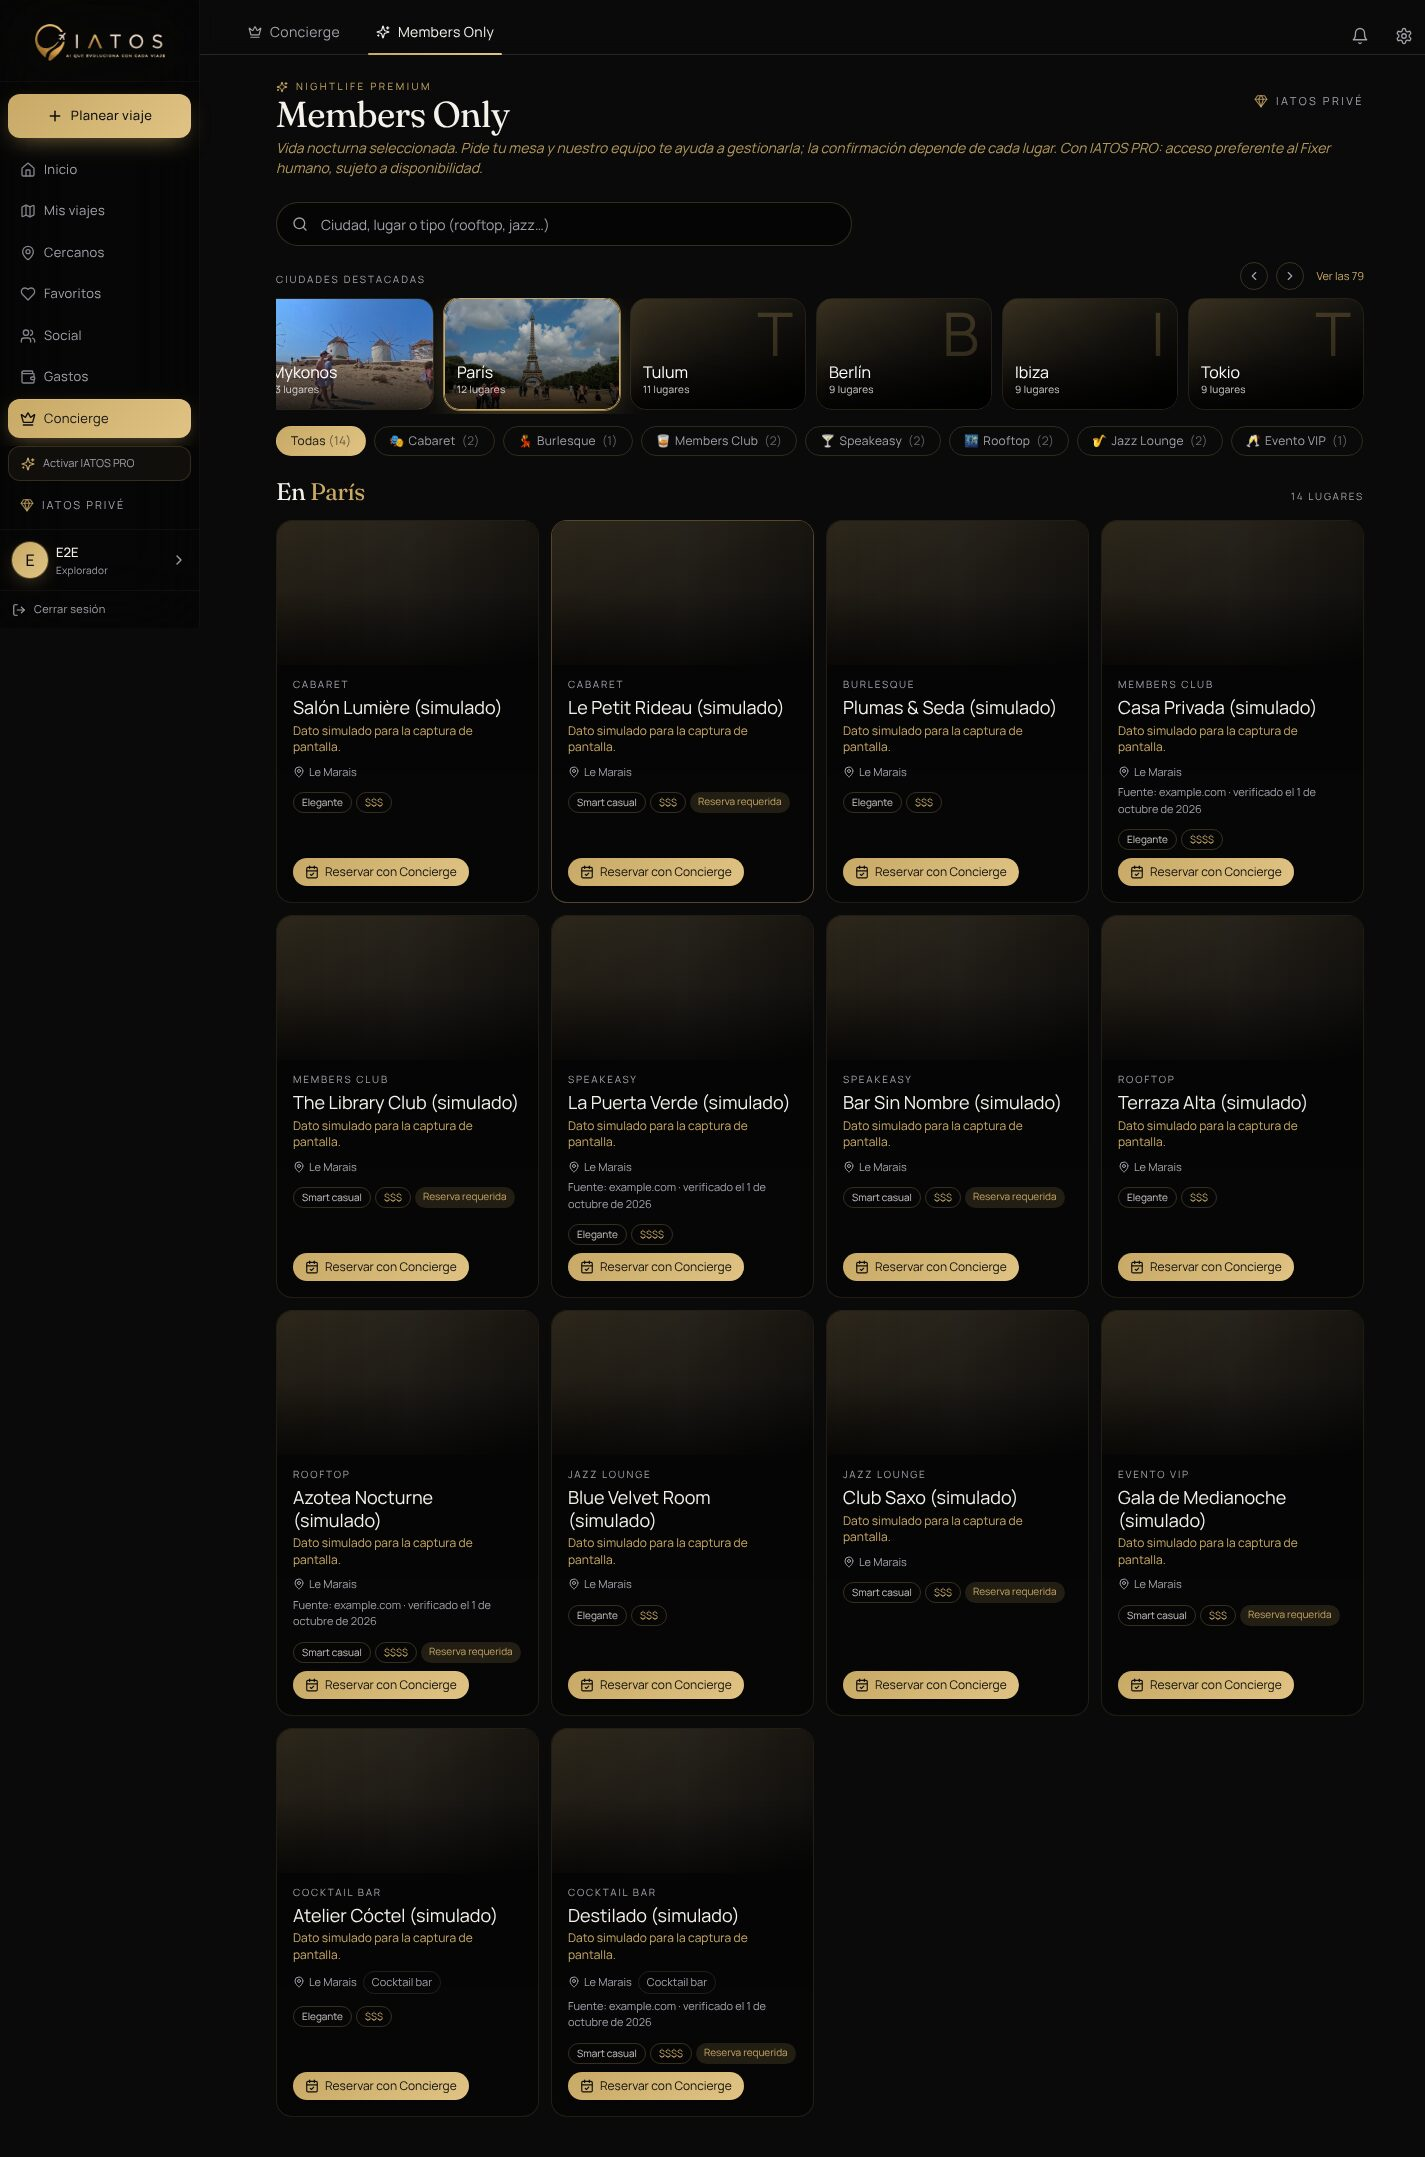
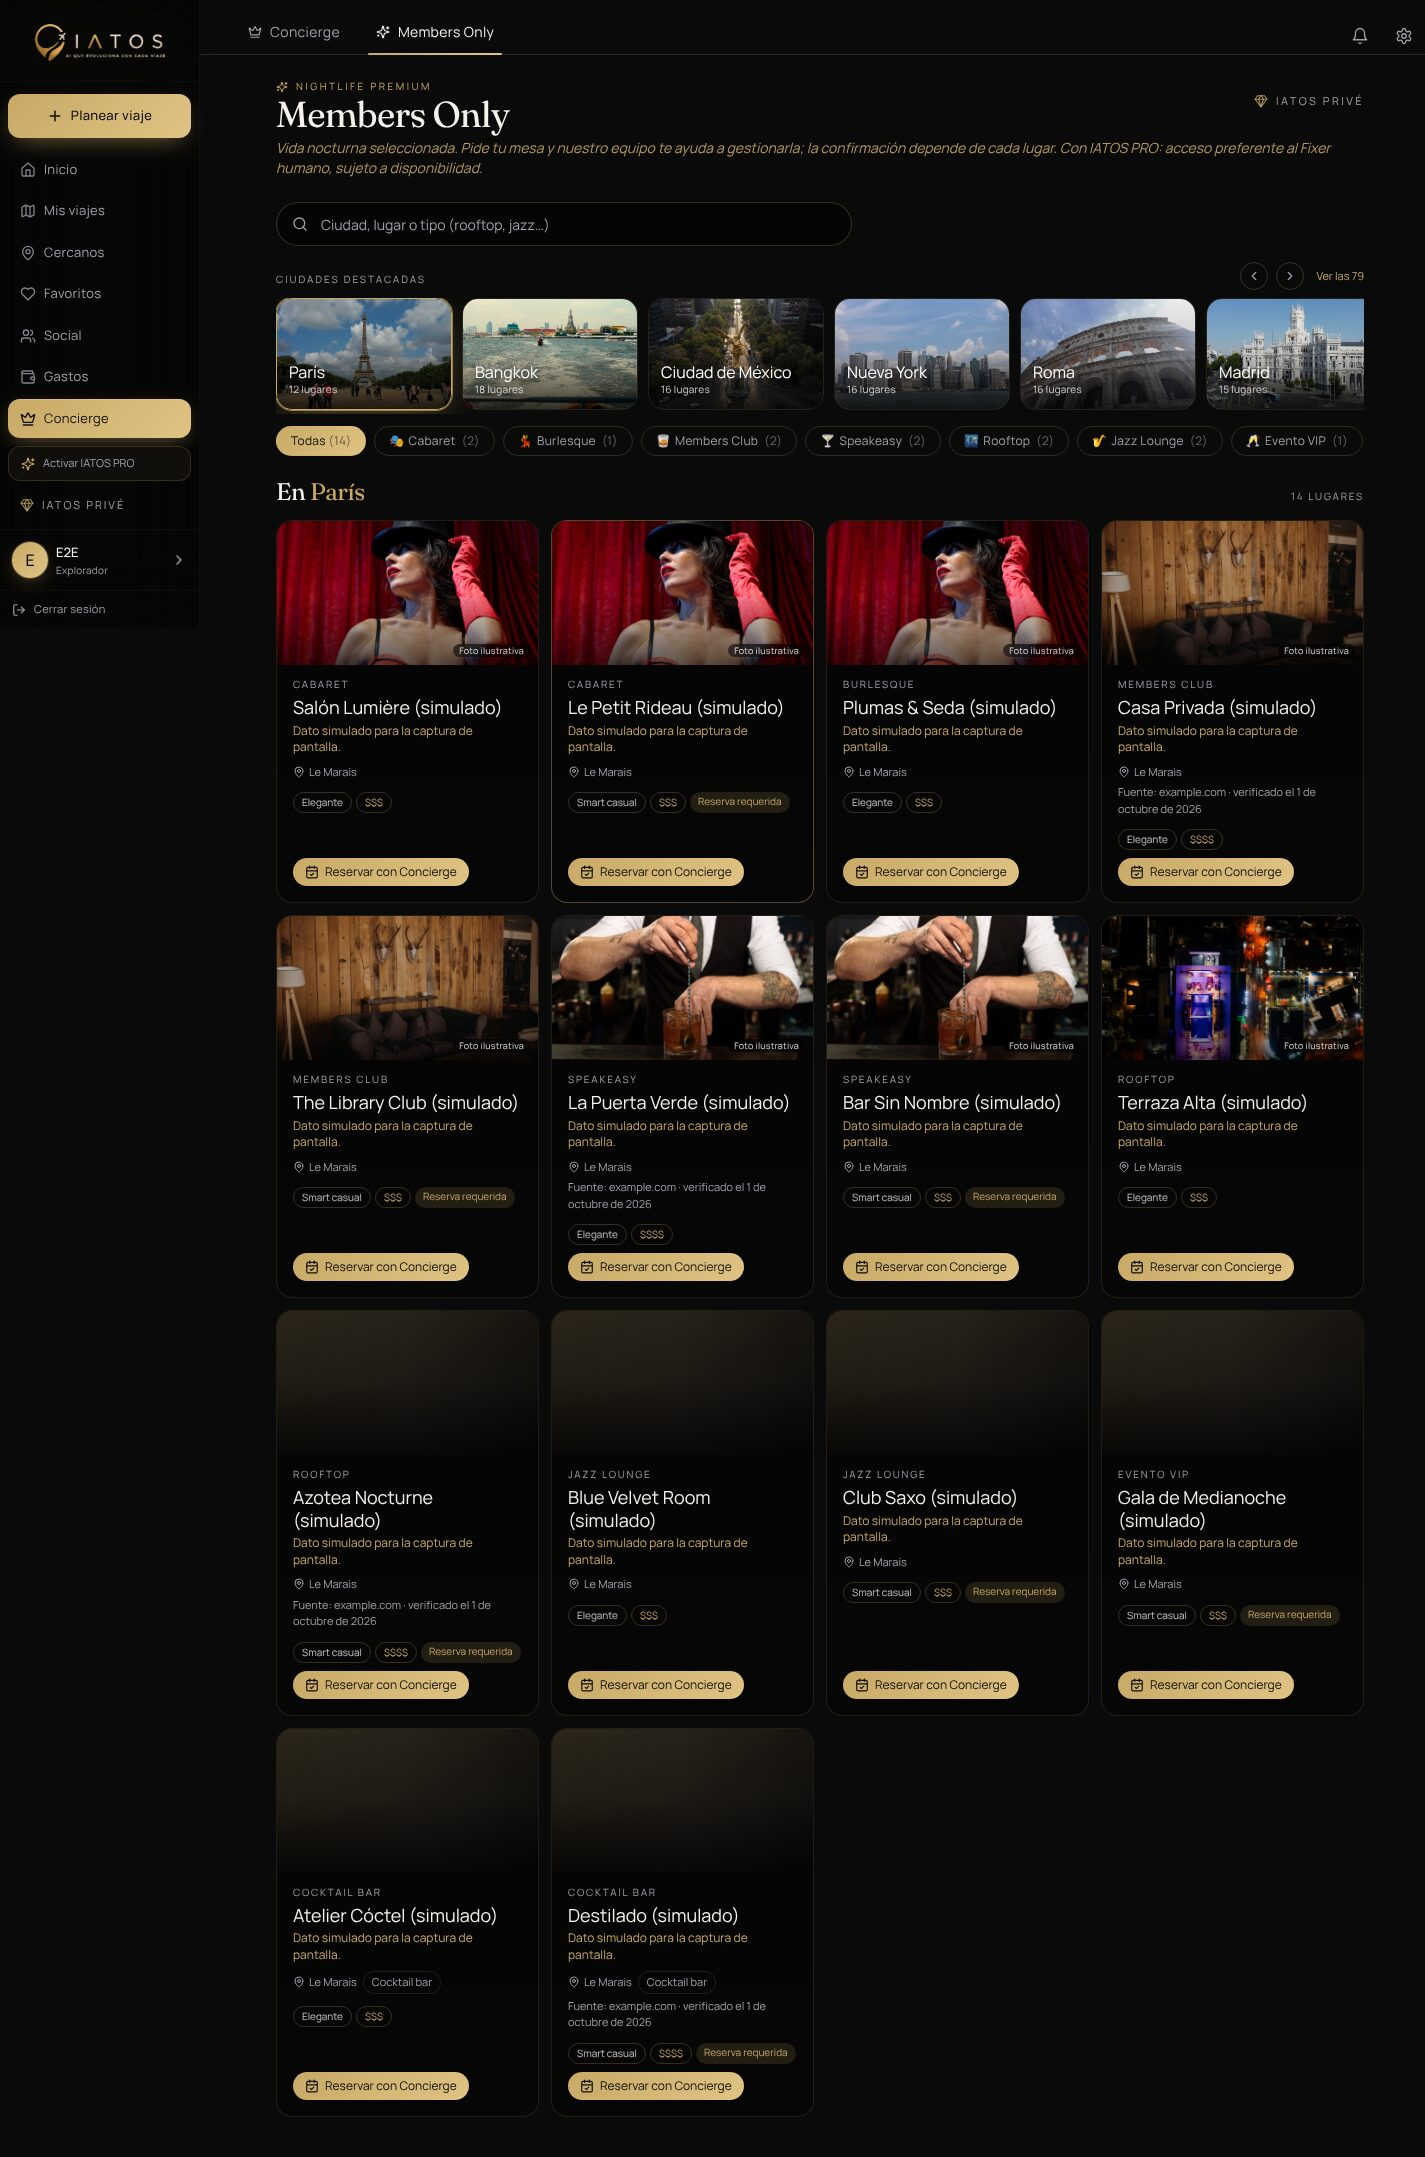
Members Only: la ciudad con la que abre el panel va al inicio del carrusel
Sin ciudad actual ni viaje con curaduría, París (la ciudad inicial) quedaba en el
lugar 14 y el carrusel se abría cortado al final. Capturas finales actualizadas.

Claude-Session: https://claude.ai/code/session_01GcD1is1yKfb8FqzW8huxBy

Changed region(s): [[0.1853, 0.1242, 0.9572, 0.3106], [0.1853, 0.4038, 0.9572, 0.497]]

diff --git a/src/components/MembersOnlyPanel.tsx b/src/components/MembersOnlyPanel.tsx
@@ -122,7 +122,9 @@ export function MembersOnlyPanel({ onReserve, preferredCities = [] }: Props) {
   }, [access?.access]);
   const allCities = useMemo(() => cityNames(cities, FEATURED_CITIES), [cities]);
   const counts = useMemo(() => new Map((cities ?? []).map((c) => [c.display, c.venues])), [cities]);
-  const ordered = useMemo(() => orderCities(allCities, preferredCities), [allCities, prefKey]); // eslint-disable-line react-hooks/exhaustive-deps
+  // Tu ciudad y tu viaje primero; después la ciudad con la que abre el panel (París), para que la
+  // elegida de inicio se vea al principio del carrusel y no al final.
+  const ordered = useMemo(() => orderCities(allCities, [...preferredCities, DEFAULT_CITY]), [allCities, prefKey]); // eslint-disable-line react-hooks/exhaustive-deps
 
   // Si tu ciudad o tu viaje tienen curaduría, se abre ahí (mientras no hayas elegido otra).
   useEffect(() => {
